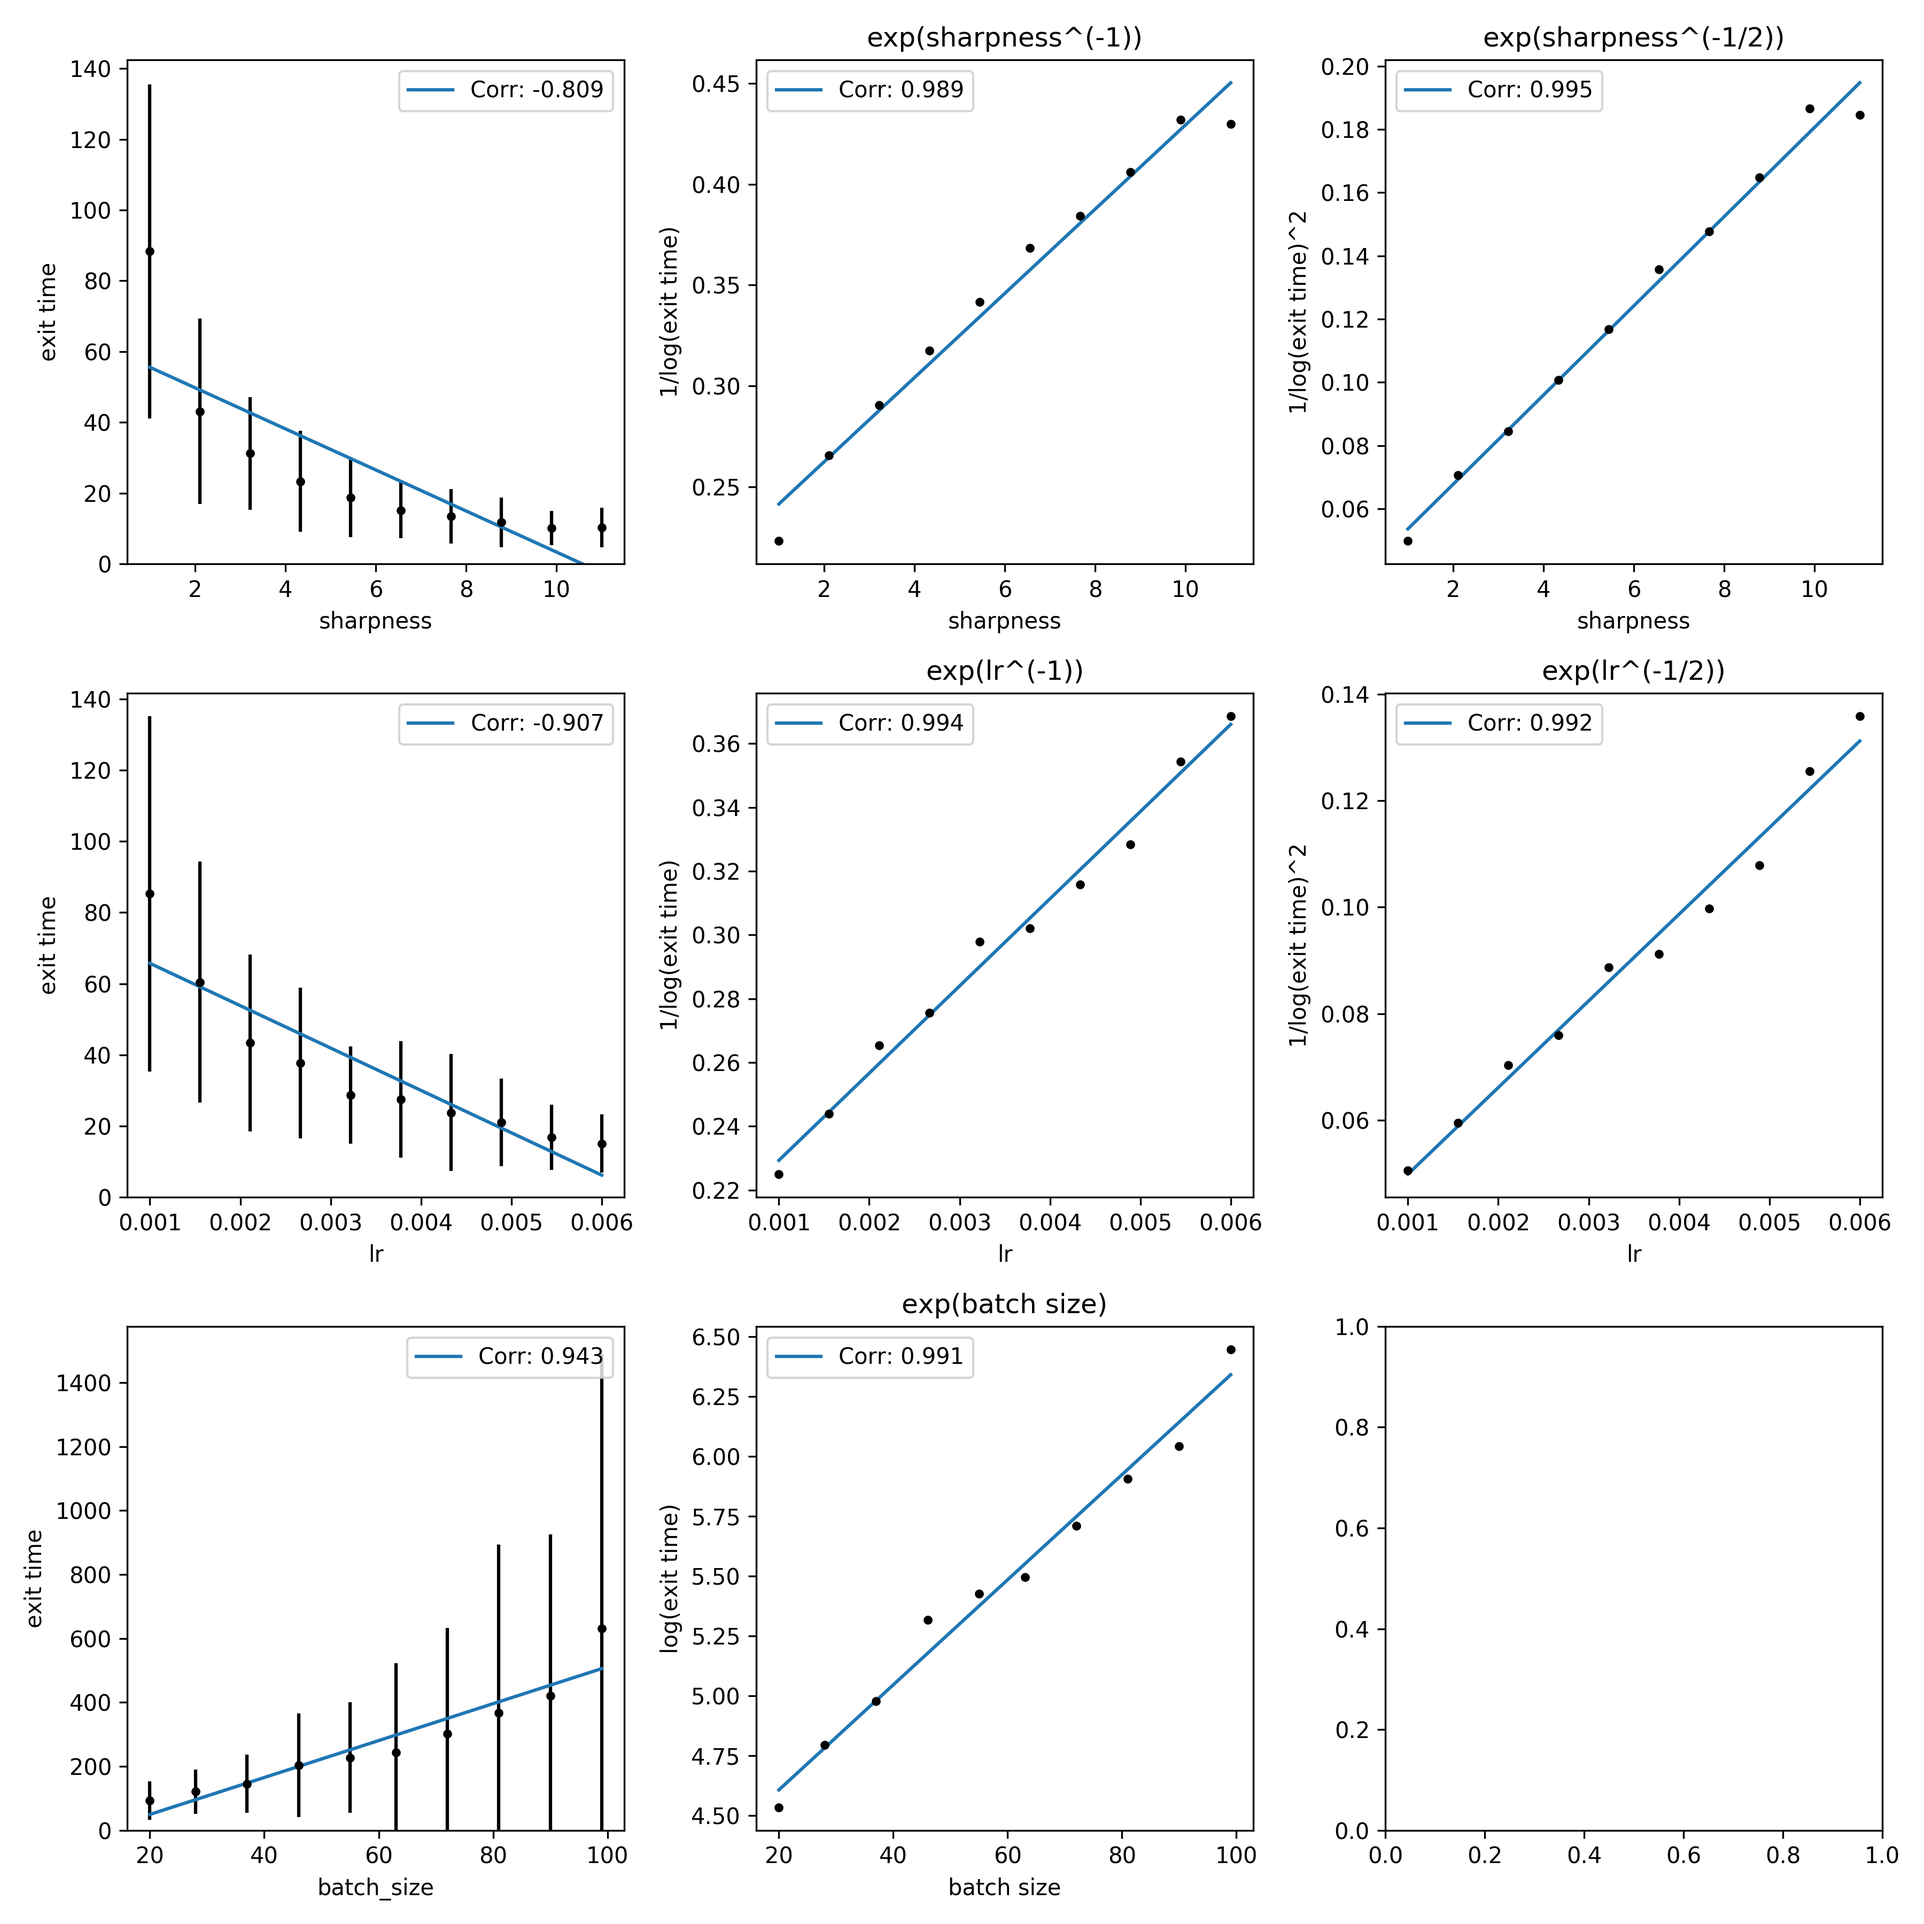
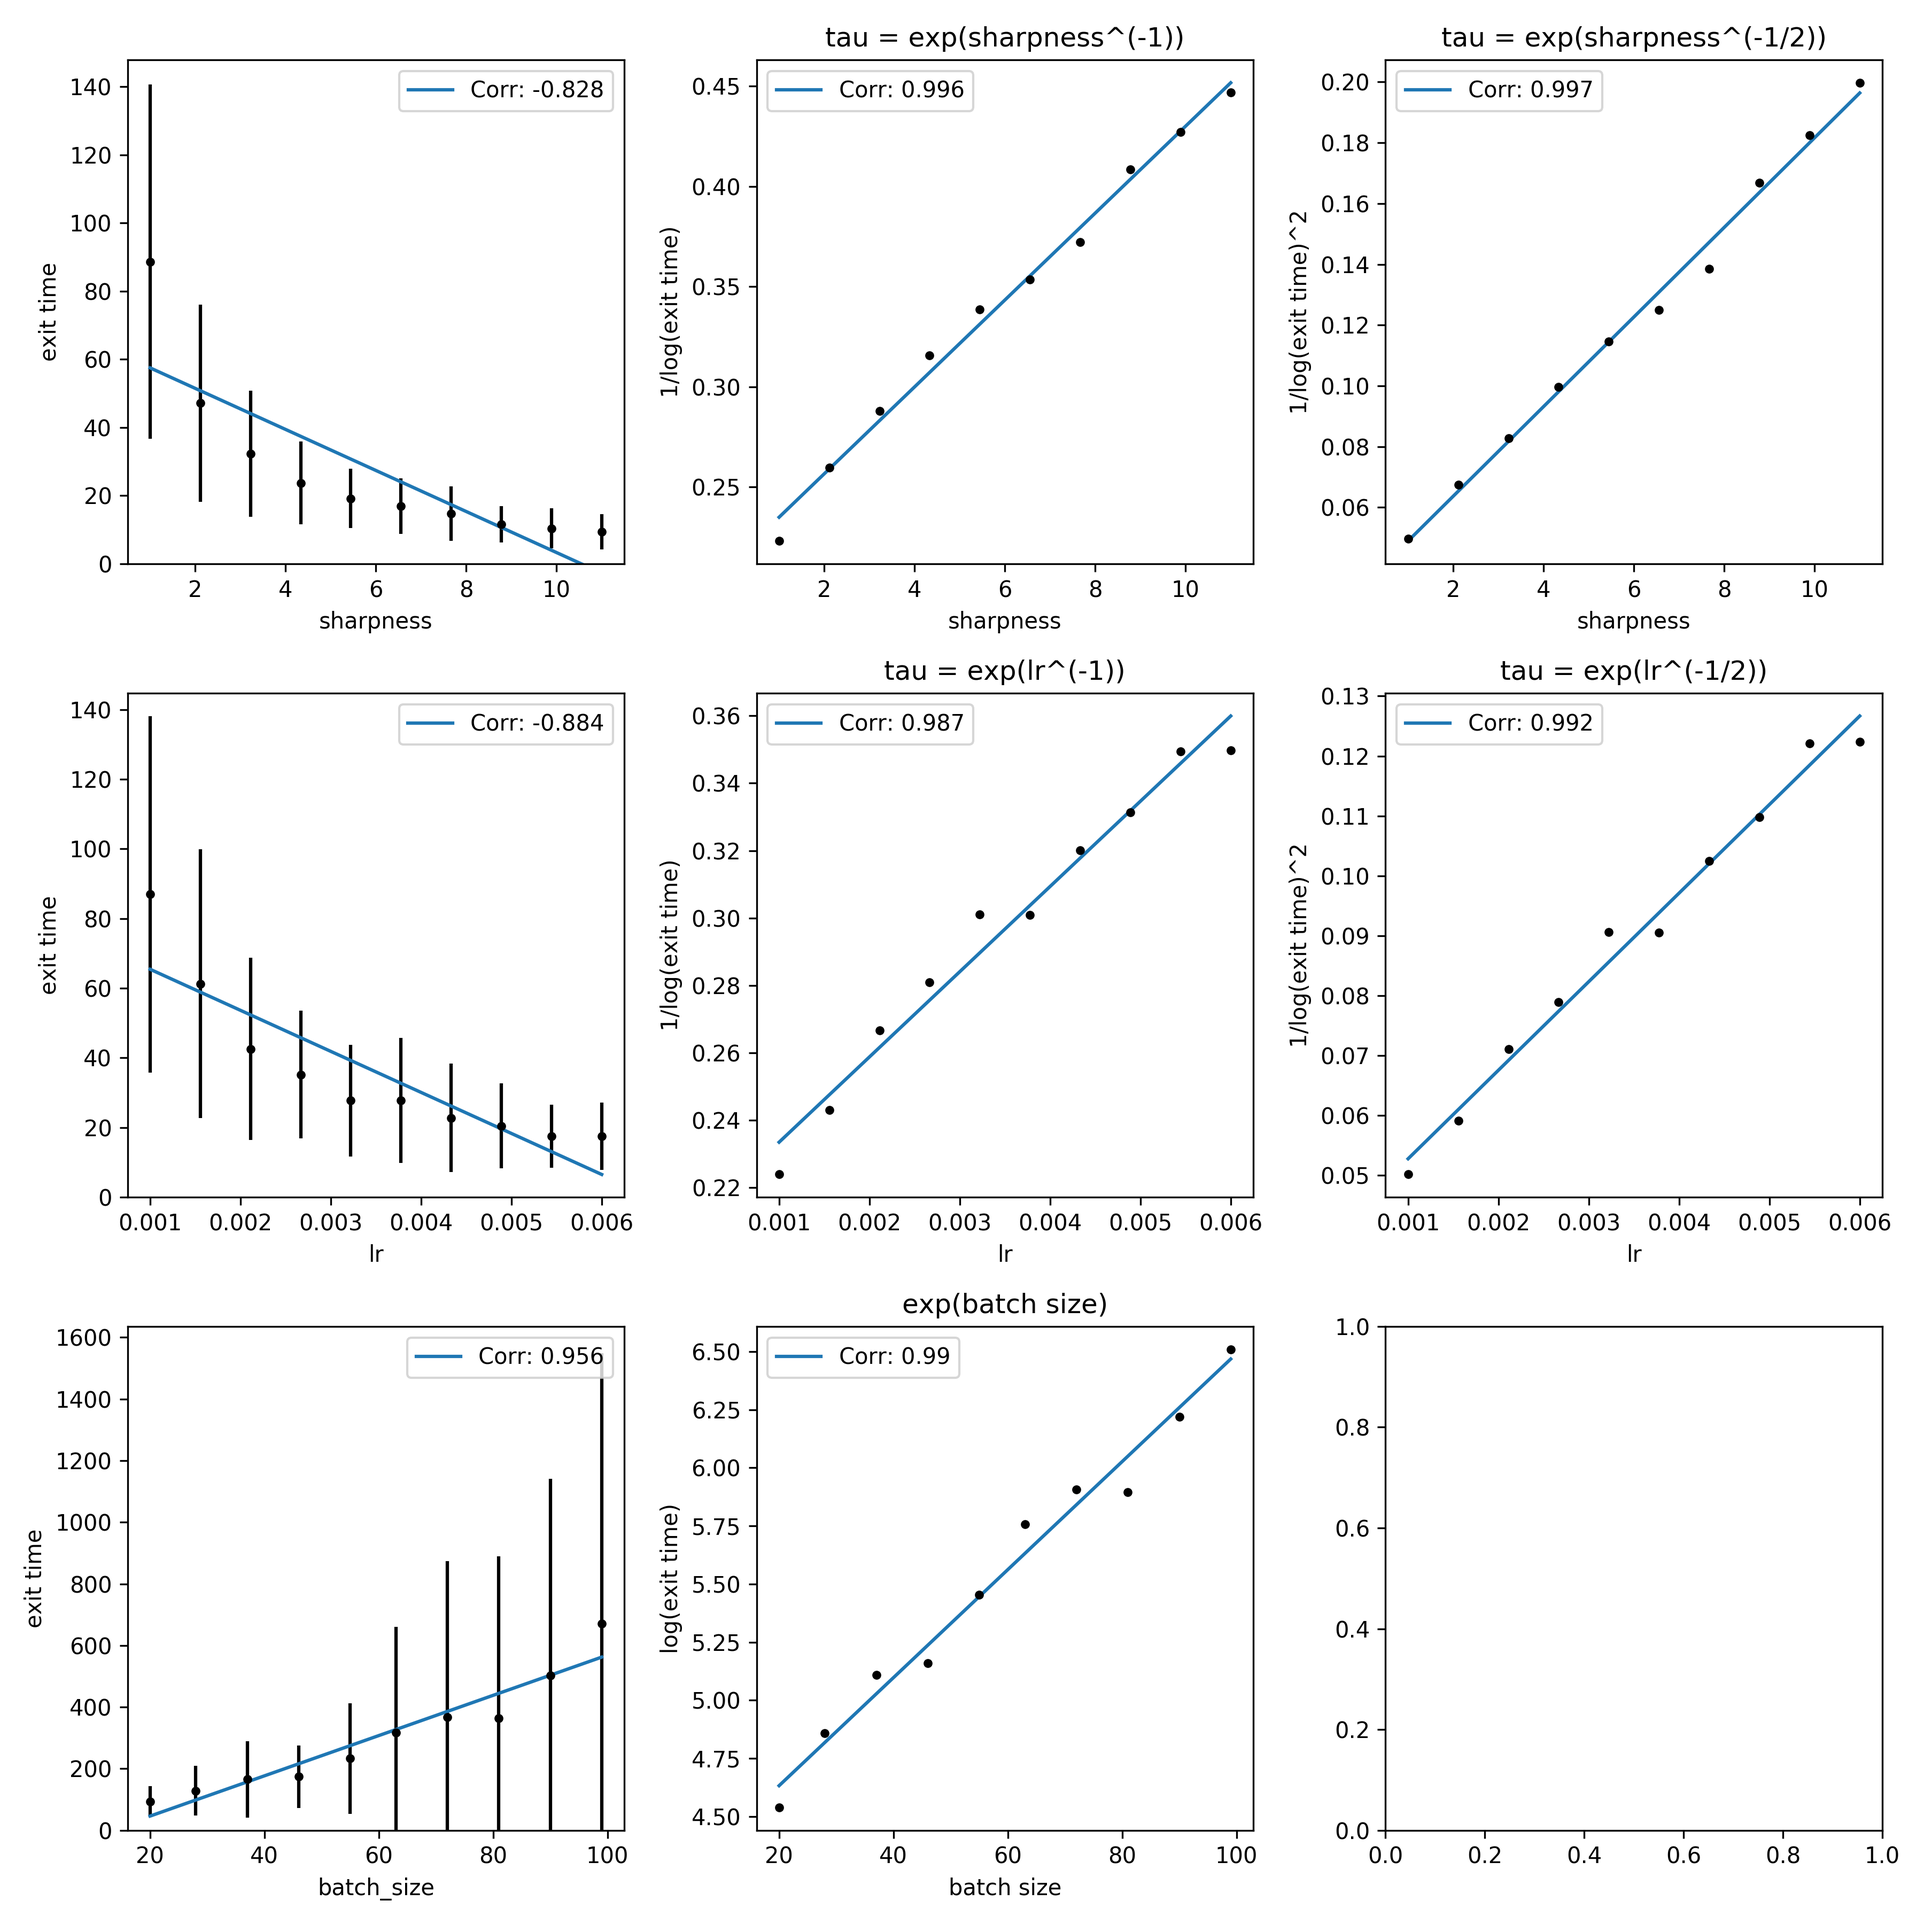
update

diff --git a/exit_time.py b/exit_time.py
@@ -174,7 +174,7 @@ def draw(sharpness_results, lr_results, batch_size_results):
     ax1[1].errorbar(x_2, y_2, yerr=std*0, fmt='.k') 
     ax1[1].plot(x_2, m_2*x_2 + c_2)
     ax1[1].legend([f'Corr: {coeff_2:.3g}'])
-    ax1[1].set_title(f'exp(sharpness^(-1))')
+    ax1[1].set_title(f'tau = exp(sharpness^(-1))')
     #
     x_3 = x
     y_3 = 1/(np.log(y)**2)
@@ -186,7 +186,7 @@ def draw(sharpness_results, lr_results, batch_size_results):
     ax1[2].errorbar(x_3, y_3, yerr=std*0, fmt='.k') 
     ax1[2].plot(x_3, m_3*x_3 + c_3)
     ax1[2].legend([f'Corr: {coeff_3:.3g}'])
-    ax1[2].set_title(f'exp(sharpness^(-1/2))')
+    ax1[2].set_title(f'tau = exp(sharpness^(-1/2))')
     ###
     # Learning rate
     (x, y, std) = lr_results
@@ -211,7 +211,7 @@ def draw(sharpness_results, lr_results, batch_size_results):
     ax2[1].errorbar(x_2, y_2, yerr=std*0, fmt='.k') 
     ax2[1].plot(x_2, m_2*x_2 + c_2)
     ax2[1].legend([f'Corr: {coeff_2:.3g}'])
-    ax2[1].set_title(f'exp(lr^(-1))')
+    ax2[1].set_title(f'tau = exp(lr^(-1))')
     #
     x_3 = x
     y_3 = 1/(np.log(y)**2)
@@ -223,7 +223,7 @@ def draw(sharpness_results, lr_results, batch_size_results):
     ax2[2].errorbar(x_3, y_3, yerr=std*0, fmt='.k') 
     ax2[2].plot(x_3, m_3*x_3 + c_3)
     ax2[2].legend([f'Corr: {coeff_3:.3g}'])
-    ax2[2].set_title(f'exp(lr^(-1/2))')
+    ax2[2].set_title(f'tau = exp(lr^(-1/2))')
     # draw_subfig(ax2, *lr_results, "lr")
     # Batch size
     (x, y, std) = batch_size_results
